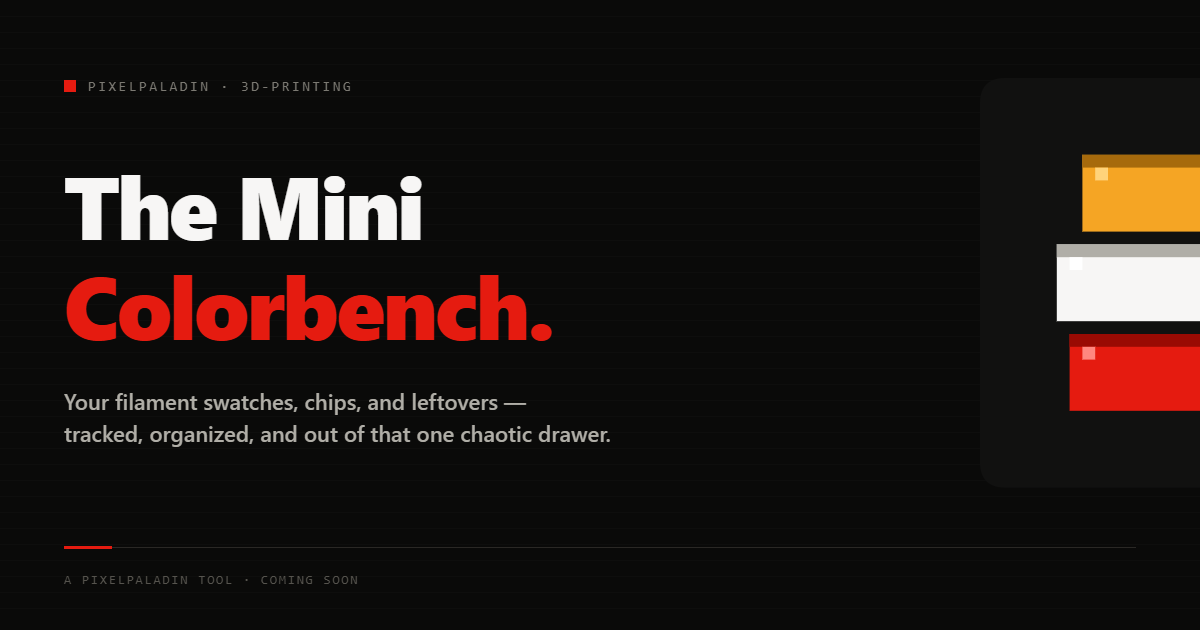
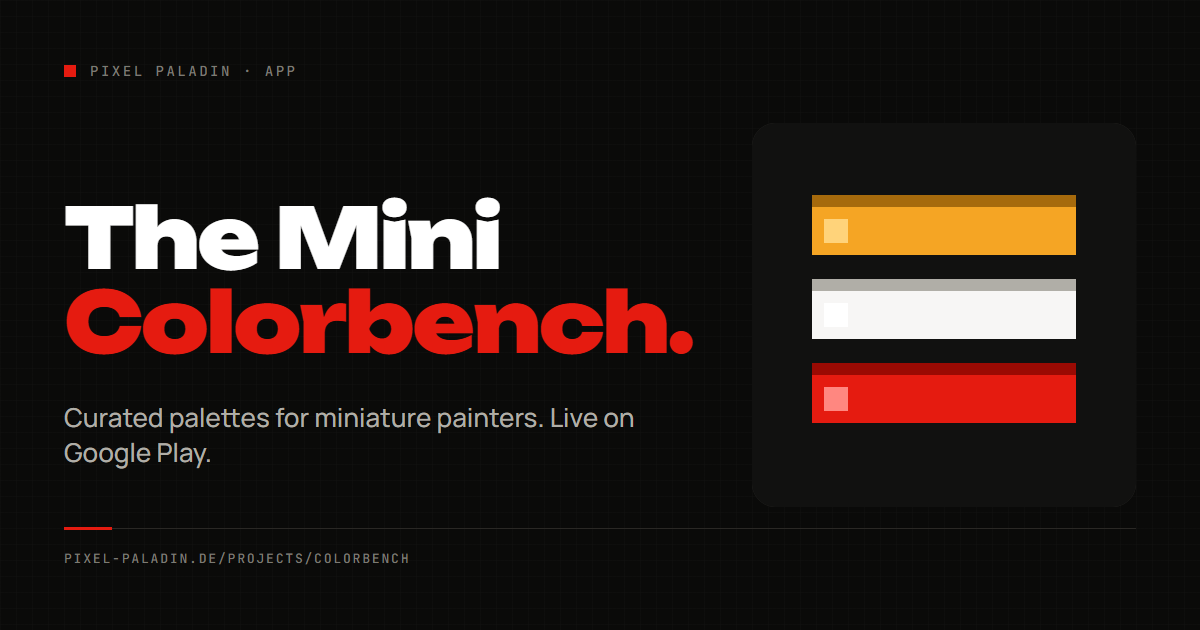
Share cards: re-exported images and complete social tags
The Colorbench card said "coming soon" and described the old concept, and the
home card showed the wrong domain and clipped art. All three cards (home,
Colorbench, AD-Passreset) are re-exported at 1200x630 from the brand template,
AD-Passreset gets og/canonical tags, and the three pages with a card get
twitter:card.

diff --git a/projects/ad-passreset/index.html b/projects/ad-passreset/index.html
@@ -7,6 +7,18 @@
 <meta name="theme-color" content="#0a0a09" />
 <title>AD-Passreset Portal · Pixel Paladin</title>
 <meta name="description" content="Self-service Active Directory password change portal for Windows shops. .NET 10 + React, breach-checked, SIEM-wired, MIT licensed."/>
+<link rel="canonical" href="https://pixel-paladin.de/projects/ad-passreset/"/>
+<meta property="og:type" content="website"/>
+<meta property="og:site_name" content="Pixel Paladin"/>
+<meta property="og:title" content="AD-Passreset Portal · Pixel Paladin"/>
+<meta property="og:description" content="Self-service Active Directory password change portal for Windows shops. .NET 10 + React, breach-checked, SIEM-wired, MIT licensed."/>
+<meta property="og:url" content="https://pixel-paladin.de/projects/ad-passreset/"/>
+<meta property="og:locale" content="en_US"/>
+<meta property="og:image" content="https://pixel-paladin.de/ds/assets/ad-passreset-og.png"/>
+<meta property="og:image:width" content="1200"/>
+<meta property="og:image:height" content="630"/>
+<meta property="og:image:alt" content="AD-Passreset Portal: self-service Active Directory password change for Windows shops"/>
+<meta name="twitter:card" content="summary_large_image"/>
 <link rel="icon" href="/ds/assets/pixelpaladin-favicon.svg" type="image/svg+xml"/>
 <link rel="preload" href="/ds/fonts/Unbounded-Regular.woff2" as="font" type="font/woff2" crossorigin>
 <link rel="preload" href="/ds/fonts/Manrope-Regular.woff2" as="font" type="font/woff2" crossorigin>

diff --git a/index.html b/index.html
@@ -20,6 +20,7 @@
 <meta property="og:image:width" content="1200" />
 <meta property="og:image:height" content="630" />
 <meta property="og:image:alt" content="Pixel Paladin — workshop of IT security, 3D prints, homelab, and painted miniatures" />
+<meta name="twitter:card" content="summary_large_image" />
 <script type="application/ld+json">
 {
   "@context": "https://schema.org",

diff --git a/projects/colorbench/index.html b/projects/colorbench/index.html
@@ -19,6 +19,7 @@
 <meta property="og:image:width" content="1200"/>
 <meta property="og:image:height" content="630"/>
 <meta property="og:image:alt" content="The Mini Colorbench — palette and recipe companion for miniature painters"/>
+<meta name="twitter:card" content="summary_large_image"/>
 <script type="application/ld+json">
 {
   "@context": "https://schema.org",
